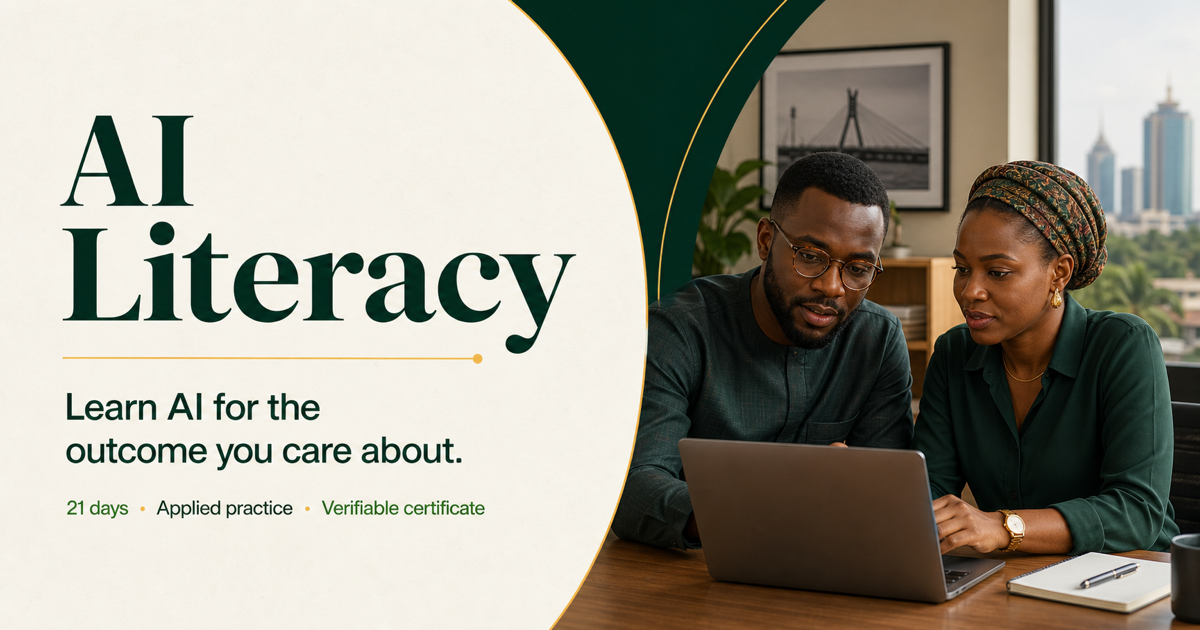
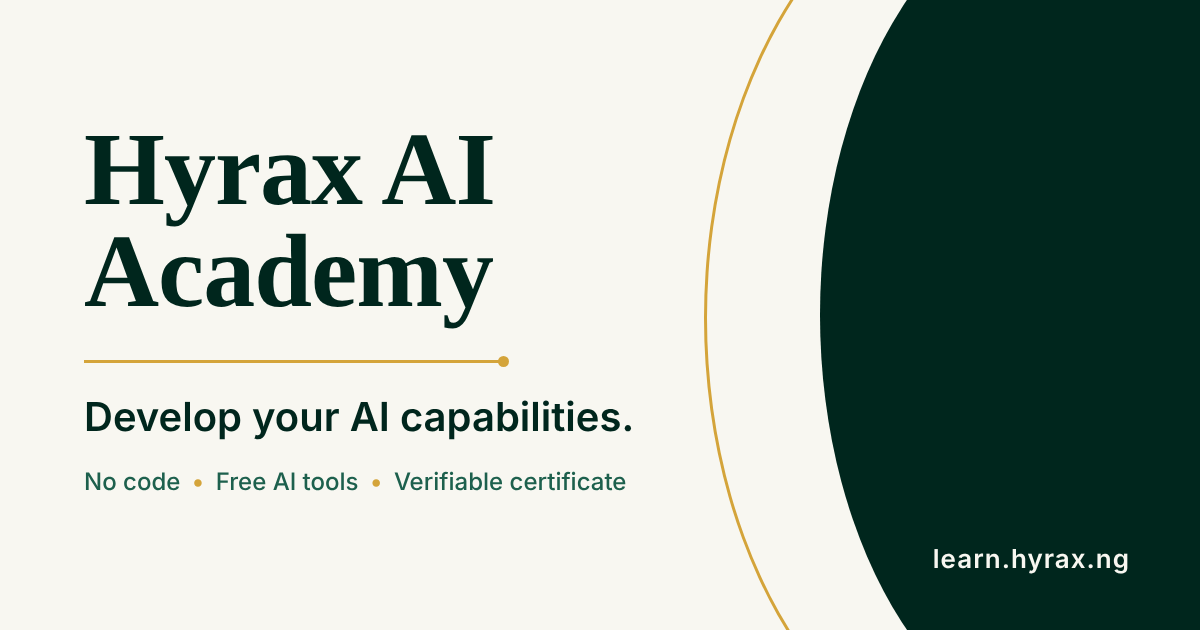
Replace link-preview image with text-only Hyrax AI Academy version (#6)
Claude-Session: https://claude.ai/code/session_01KxGKK6EeAj8pD2AMvWQwRN

diff --git a/src/app/layout.tsx b/src/app/layout.tsx
@@ -13,7 +13,7 @@ export const metadata: Metadata = {
   formatDetection: { telephone: false },
   icons: { icon: [{ url: "/icons/icon-192.png", sizes: "192x192", type: "image/png" }], apple: [{ url: "/icons/icon-192.png", sizes: "192x192", type: "image/png" }] },
   alternates: { canonical: "./" },
-  openGraph: { url: "./", title: "Hyrax AI Academy — Develop your AI capabilities", description: "A no-code, mobile-first AI-for-work course built for Nigerian working people — free tools, 10 days, real outputs.", type: "website", images: [{ url: "/og.png", width: 1200, height: 630, alt: "AI for Your Work in 10 Days" }] },
+  openGraph: { url: "./", title: "Hyrax AI Academy — Develop your AI capabilities", description: "A no-code, mobile-first AI-for-work course built for Nigerian working people — free tools, 10 days, real outputs.", type: "website", images: [{ url: "/og.png", width: 1200, height: 630, alt: "Hyrax AI Academy — Develop your AI capabilities" }] },
   twitter: { card: "summary_large_image", title: "Hyrax AI Academy — Develop your AI capabilities", description: "A no-code, mobile-first AI-for-work course built for Nigerian working people — free tools, 10 days, real outputs.", images: ["/og.png"] },
   robots: { index: true, follow: true },
 };
